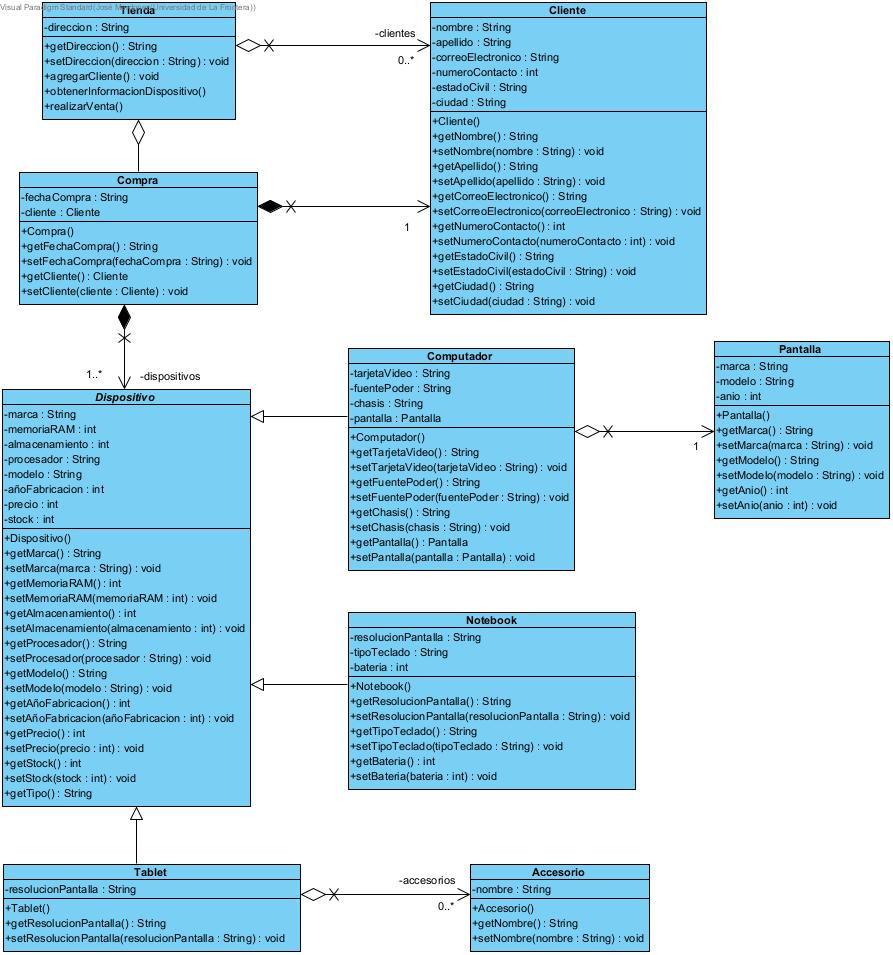
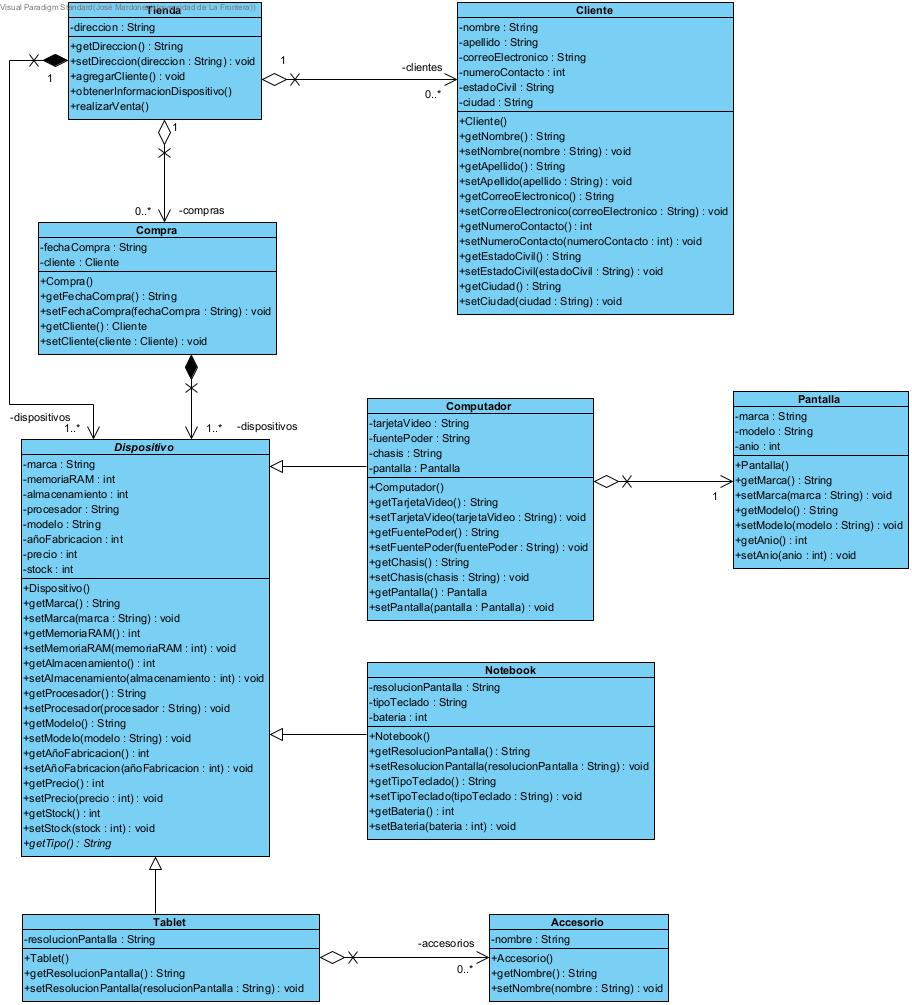
Se sube segunda version

diff --git a/src/main/java/Tienda.java b/src/main/java/Tienda.java
@@ -1,9 +1,11 @@
+import java.sql.SQLOutput;
 import java.util.ArrayList;
 
 public class Tienda {
 	private String direccion;
 	private ArrayList<Cliente> clientes = new ArrayList<Cliente>();
 	private ArrayList<Compra> compras = new ArrayList<Compra>();
+	private ArrayList<Dispositivo> dispositivos = new ArrayList<Dispositivo>();
 
 
 	public String getDireccion() {
@@ -20,15 +22,8 @@ public class Tienda {
 	}
 
 	public void obtenerInformacionDispositivo(Dispositivo dispositivo) {
-		for(Dispositivo dispositivo : this.dispositivos){
-			if(paciente.getRun().equals(run)){
-				System.out.println("Paciente encontrado");
-				return paciente;
-			}
-		}
+		System.out.println(dispositivo.toString());
 
-		System.out.println("Paciente no encontrado");
-		return null;;
 	}
 
 	public void realizarVenta(String fecha, Cliente cliente) {

diff --git a/src/main/java/Dispositivo.java b/src/main/java/Dispositivo.java
@@ -83,5 +83,9 @@ public abstract class Dispositivo {
 		this.stock = stock;
 	}
 
+	public String toString(){
+		return marca+", "+memoriaRAM+", "+almacenamiento+", "+procesador+", "+modelo+", "+anioFabricacion+", "+precio+", "+stock;
+	}
+
 	public abstract String getTipo();
 }

diff --git a/src/main/java/Computador.java b/src/main/java/Computador.java
@@ -47,6 +47,7 @@ public class Computador extends Dispositivo {
 		this.pantalla = pantalla;
 	}
 
+
 	public String getTipo() {
 		return "Computador";
 	}
